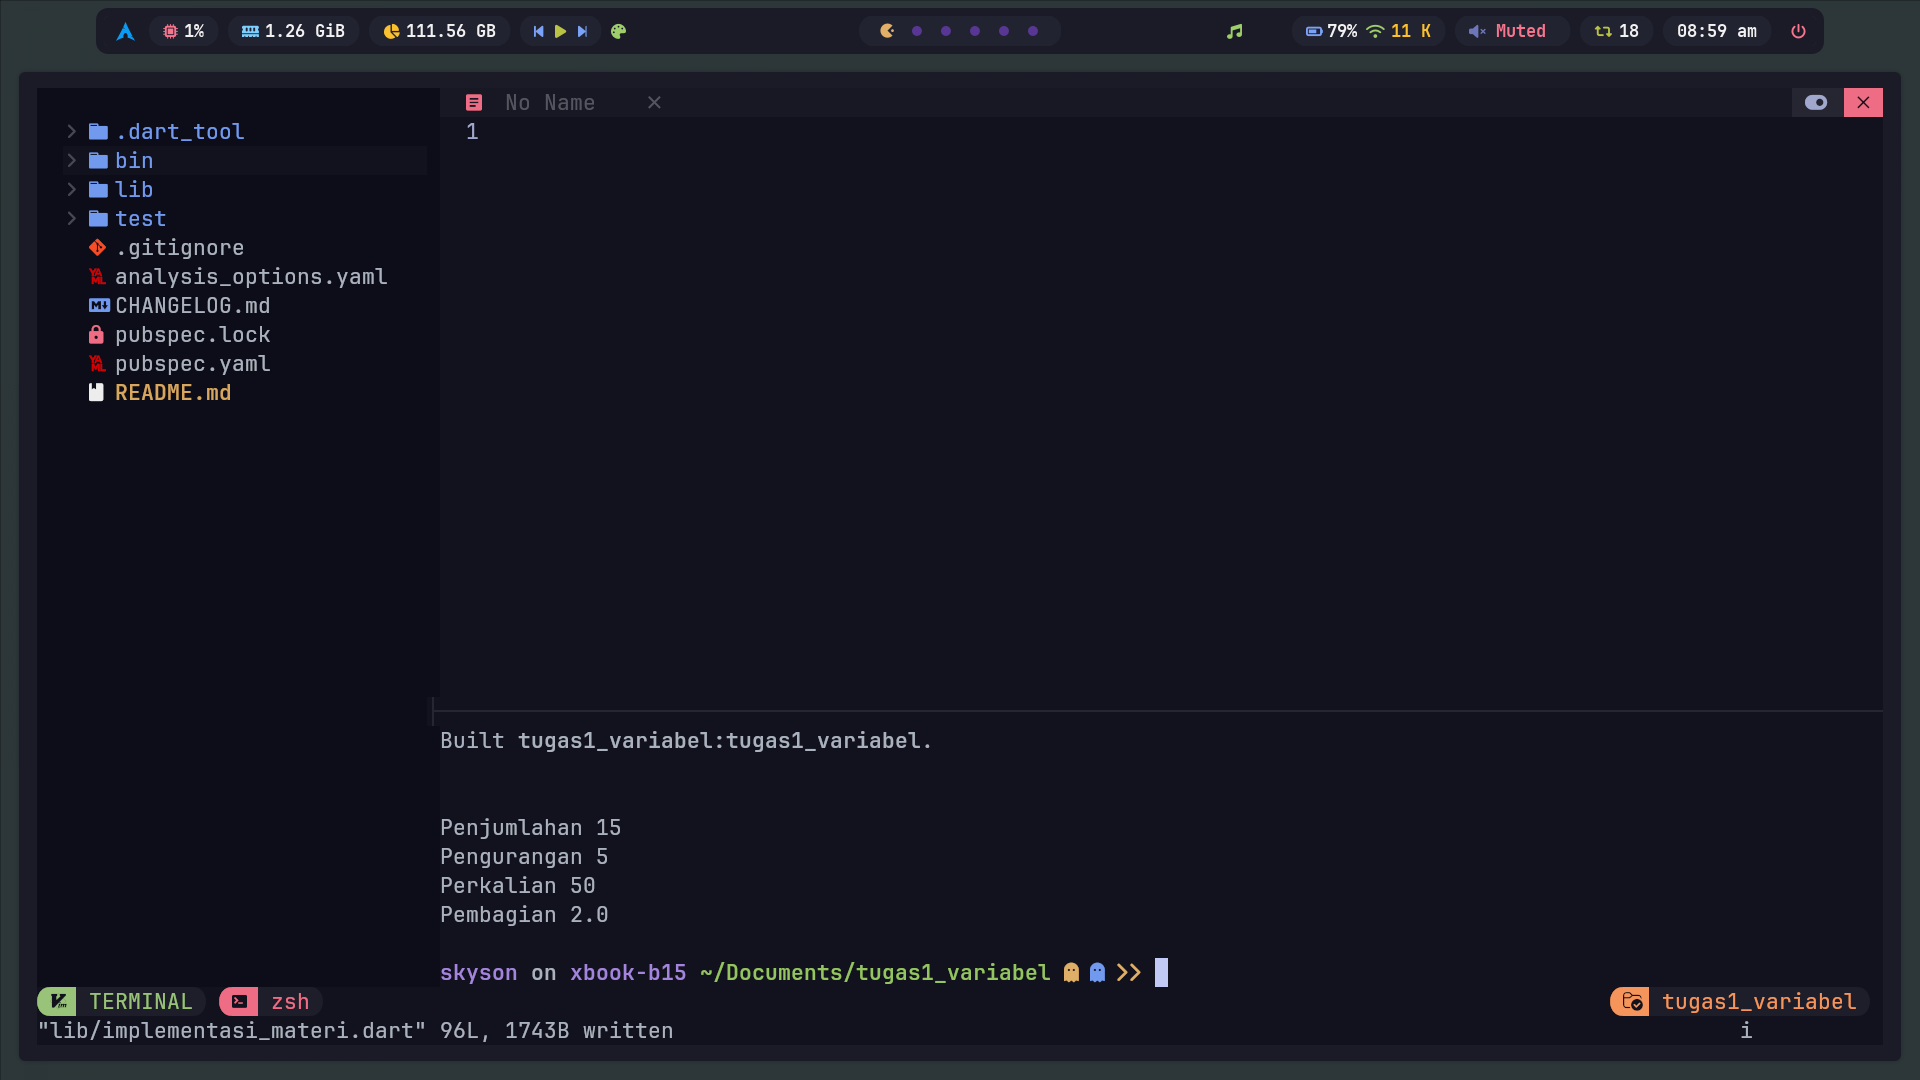
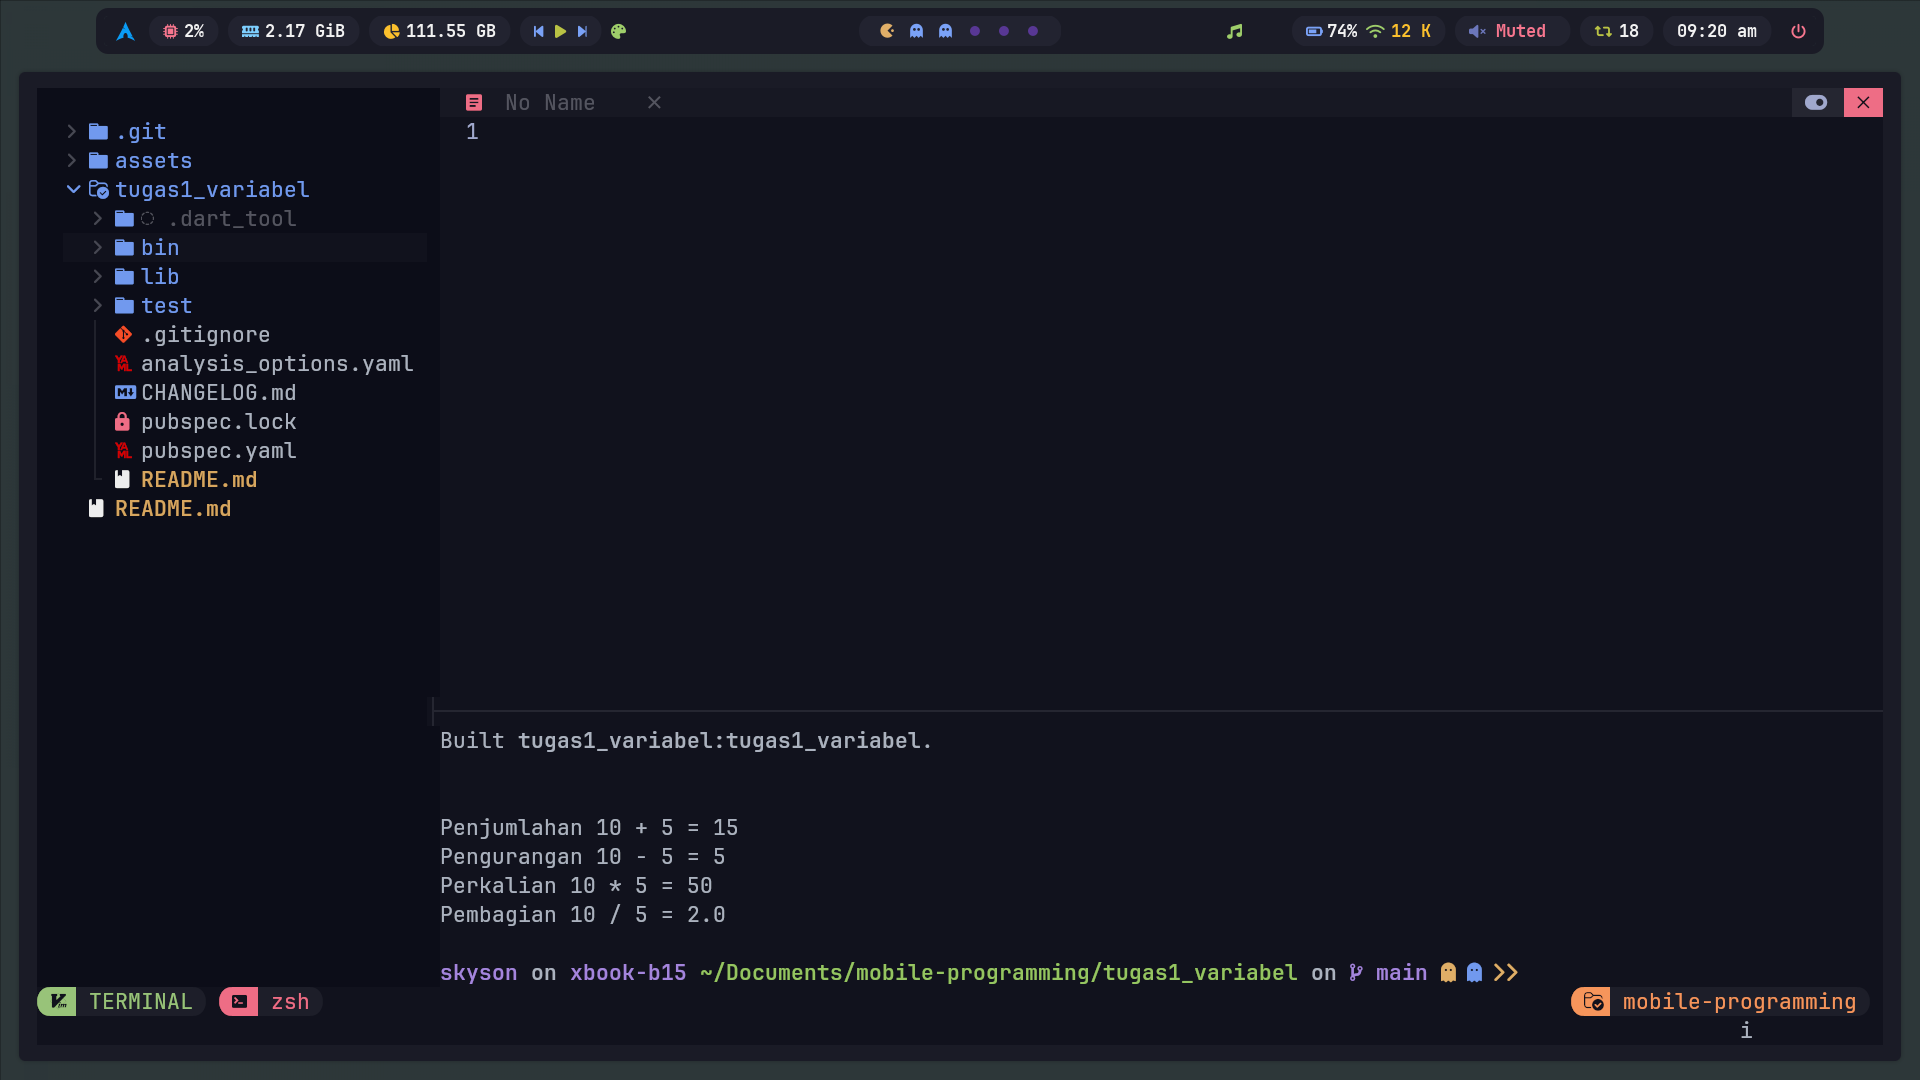
tugas1_variabel

diff --git a/README.md b/README.md
@@ -1,6 +1,3 @@
-<p align="center"><a href="https://dart.dev" target="_blank"><img src="https://githubusercontent.com" alt="Dart Logo" width="60" height="60"></a></p>
-
-
 # 📝 Tugas dan Praktikum Mobile Programming
 
 ---
